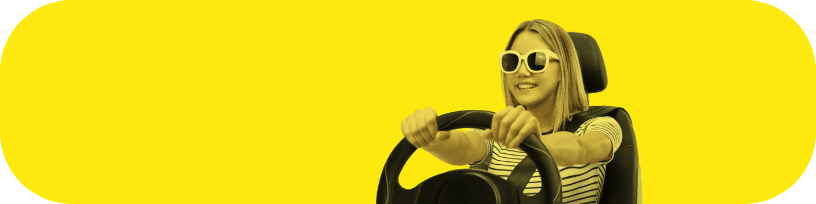
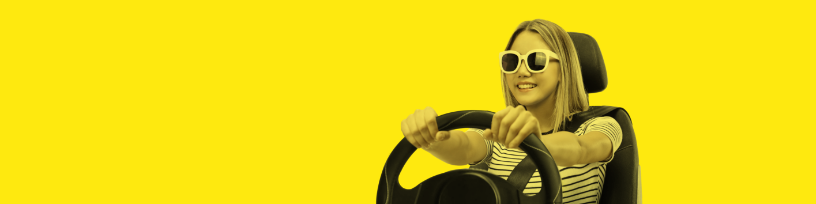
챗봇진입 완료

diff --git a/html/CHT-41.html b/html/CHT-41.html
@@ -28,14 +28,7 @@
 
 		<!-- chat_head -->
 		<div class="chat_head">
-			<div class="left">
-				<a href="javascript:;" class="btn_menu back"><span class="hide">챗봇 뒤로가기</span></a>
-			</div>
-			<h1 class="logo">챗봇</h1>
-			<div class="right">
-				<button type="button" class="btn_menu play"><span class="hide">챗봇 배경음악</span></button> 
-				<a href="javascript:;" class="btn_menu home"><span class="hide">롯데손해보험 홈화면으로 이동</span></a>
-			</div>
+			공통 : 헤더영역
 		</div>
 		<!-- //chat_head -->
 
@@ -44,21 +37,7 @@
 
 			<!-- bot_wrap -->
 			<div id="bot_restart" class="bot_wrap" style="display:none;"><!-- 초기셋팅 봇 : bot_restart -->
-				<div class="bot_img">
-					<span class="ico ico_bot"></span>
-				</div>
-				<div class="bot_box">
-					<div class="bot_box_inner">
-						<p class="bot_txt">
-							진행중인 작업이 있어요?<br>
-							퀵 메뉴로 이동하면 기존 작업은 사라져요..
-						</p>
-						<div class="btn_wrap col2">
-							<a href="javascript:;" class="btn big round black">계속진행</a>
-							<a href="javascript:;" class="btn big round purple" onclick="fn.init();">처음으로</a>
-						</div>
-					</div>
-				</div>
+				공통 : 다시하기 봇 영역
 			</div>
 			<!-- //bot_wrap -->
 
@@ -197,31 +176,7 @@
 
 		<!-- chat_foot -->
 		<div class="chat_foot">
-
-			<!-- restart_wrap -->
-			<div class="restart_wrap">
-				<button type="button" class="btn_restart" onclick="fn.restart();">다시하기</button>
-			</div>
-			<!-- //restart_wrap -->
-
-			<!-- chat_input_box -->
-			<div class="chat_input_box">
-				<input type="text" id="chat_input" placeholder="궁금한점을 입력하세요." title="문의내용">
-				<button type="button" class="btn_send"><span class="hide">문의 내용 전송</span></button>
-			</div>
-			<!-- //chat_input_box -->
-			
-			<!-- keyword_box -->
-			<div class="keyword_box"><!-- 활성화 : '.is_active' 추가 -->
-				<ul>
-					<li><a href="javascript:;"><strong class="mark">청구</strong>방법에 대해 궁금해요.</a></li>
-					<li><a href="javascript:;"><strong class="mark">청구</strong>방법에 대해 궁금해요.</a></li>
-					<li><a href="javascript:;"><strong class="mark">청구</strong>방법에 대해 궁금해요.</a></li>
-					<li><a href="javascript:;"><strong class="mark">청구</strong>방법에 대해 궁금해요.</a></li>
-				</ul>
-			</div>
-			<!-- //keyword_box -->
-			
+			공통 : 푸터영역
 		</div>
 		<!-- //chat_foot -->
 

diff --git a/html/CHT-31.html b/html/CHT-31.html
@@ -28,14 +28,7 @@
 
 		<!-- chat_head -->
 		<div class="chat_head">
-			<div class="left">
-				<a href="javascript:;" class="btn_menu back"><span class="hide">챗봇 뒤로가기</span></a>
-			</div>
-			<h1 class="logo">챗봇</h1>
-			<div class="right">
-				<button type="button" class="btn_menu play"><span class="hide">챗봇 배경음악</span></button>
-				<a href="javascript:;" class="btn_menu home"><span class="hide">롯데손해보험 홈화면으로 이동</span></a>
-			</div>
+			공통 : 헤더영역
 		</div>
 		<!-- //chat_head -->
 
@@ -44,21 +37,7 @@
 
 			<!-- bot_wrap -->
 			<div id="bot_restart" class="bot_wrap" style="display:none;"><!-- 초기셋팅 봇 : bot_restart -->
-				<div class="bot_img">
-					<span class="ico ico_bot"></span>
-				</div>
-				<div class="bot_box">
-					<div class="bot_box_inner">
-						<p class="bot_txt">
-							진행중인 작업이 있어요?<br>
-							퀵 메뉴로 이동하면 기존 작업은 사라져요..
-						</p>
-						<div class="btn_wrap col2">
-							<a href="javascript:;" class="btn big round black">계속진행</a>
-							<a href="javascript:;" class="btn big round purple" onclick="fn.init();">처음으로</a>
-						</div>
-					</div>
-				</div>
+				공통 : 다시하기 봇 영역
 			</div>
 			<!-- //bot_wrap -->
 
@@ -232,31 +211,7 @@
 
 		<!-- chat_foot -->
 		<div class="chat_foot">
-
-			<!-- restart_wrap -->
-			<div class="restart_wrap">
-				<button type="button" class="btn_restart" onclick="fn.restart();">다시하기</button>
-			</div>
-			<!-- //restart_wrap -->
-
-			<!-- chat_input_box -->
-			<div class="chat_input_box">
-				<input type="text" id="chat_input" placeholder="궁금한점을 입력하세요." title="문의내용">
-				<button type="button" class="btn_send"><span class="hide">문의 내용 전송</span></button>
-			</div>
-			<!-- //chat_input_box -->
-			
-			<!-- keyword_box -->
-			<div class="keyword_box"><!-- 활성화 : '.is_active' 추가 -->
-				<ul>
-					<li><a href="javascript:;"><strong class="mark">청구</strong>방법에 대해 궁금해요.</a></li>
-					<li><a href="javascript:;"><strong class="mark">청구</strong>방법에 대해 궁금해요.</a></li>
-					<li><a href="javascript:;"><strong class="mark">청구</strong>방법에 대해 궁금해요.</a></li>
-					<li><a href="javascript:;"><strong class="mark">청구</strong>방법에 대해 궁금해요.</a></li>
-				</ul>
-			</div>
-			<!-- //keyword_box -->
-			
+			공통 : 푸터영역
 		</div>
 		<!-- //chat_foot -->
 

diff --git a/html/CHT-51.html b/html/CHT-51.html
@@ -28,14 +28,7 @@
 
 		<!-- chat_head -->
 		<div class="chat_head">
-			<div class="left">
-				<a href="javascript:;" class="btn_menu back"><span class="hide">챗봇 뒤로가기</span></a>
-			</div>
-			<h1 class="logo">챗봇</h1>
-			<div class="right">
-				<button type="button" class="btn_menu play"><span class="hide">챗봇 배경음악</span></button> 
-				<a href="javascript:;" class="btn_menu home"><span class="hide">롯데손해보험 홈화면으로 이동</span></a>
-			</div>
+			공통 : 헤더영역
 		</div>
 		<!-- //chat_head -->
 
@@ -44,21 +37,7 @@
 
 			<!-- bot_wrap -->
 			<div id="bot_restart" class="bot_wrap" style="display:none;"><!-- 초기셋팅 봇 : bot_restart -->
-				<div class="bot_img">
-					<span class="ico ico_bot"></span>
-				</div>
-				<div class="bot_box">
-					<div class="bot_box_inner">
-						<p class="bot_txt">
-							진행중인 작업이 있어요?<br>
-							퀵 메뉴로 이동하면 기존 작업은 사라져요..
-						</p>
-						<div class="btn_wrap col2">
-							<a href="javascript:;" class="btn big round black">계속진행</a>
-							<a href="javascript:;" class="btn big round purple" onclick="fn.init();">처음으로</a>
-						</div>
-					</div>
-				</div>
+				공통 : 다시하기 봇 영역
 			</div>
 			<!-- //bot_wrap -->
 
@@ -115,31 +94,7 @@
 
 		<!-- chat_foot -->
 		<div class="chat_foot">
-
-			<!-- restart_wrap -->
-			<div class="restart_wrap">
-				<button type="button" class="btn_restart" onclick="fn.restart();">다시하기</button>
-			</div>
-			<!-- //restart_wrap -->
-
-			<!-- chat_input_box -->
-			<div class="chat_input_box">
-				<input type="text" id="chat_input" placeholder="궁금한점을 입력하세요." title="문의내용">
-				<button type="button" class="btn_send"><span class="hide">문의 내용 전송</span></button>
-			</div>
-			<!-- //chat_input_box -->
-			
-			<!-- keyword_box -->
-			<div class="keyword_box"><!-- 활성화 : '.is_active' 추가 -->
-				<ul>
-					<li><a href="javascript:;"><strong class="mark">청구</strong>방법에 대해 궁금해요.</a></li>
-					<li><a href="javascript:;"><strong class="mark">청구</strong>방법에 대해 궁금해요.</a></li>
-					<li><a href="javascript:;"><strong class="mark">청구</strong>방법에 대해 궁금해요.</a></li>
-					<li><a href="javascript:;"><strong class="mark">청구</strong>방법에 대해 궁금해요.</a></li>
-				</ul>
-			</div>
-			<!-- //keyword_box -->
-			
+			공통 : 푸터영역
 		</div>
 		<!-- //chat_foot -->
 

diff --git a/html/CHT-21.html b/html/CHT-21.html
@@ -28,14 +28,7 @@
 
 		<!-- chat_head -->
 		<div class="chat_head">
-			<div class="left">
-				<a href="javascript:;" class="btn_menu back"><span class="hide">챗봇 뒤로가기</span></a>
-			</div>
-			<h1 class="logo">챗봇</h1>
-			<div class="right">
-				<button type="button" class="btn_menu play"><span class="hide">챗봇 배경음악</span></button>
-				<a href="javascript:;" class="btn_menu home"><span class="hide">롯데손해보험 홈화면으로 이동</span></a>
-			</div>
+			공통 : 헤더영역
 		</div>
 		<!-- //chat_head -->
 
@@ -44,21 +37,7 @@
 
 			<!-- bot_wrap -->
 			<div id="bot_restart" class="bot_wrap" style="display:none;"><!-- 초기셋팅 봇 : bot_restart -->
-				<div class="bot_img">
-					<span class="ico ico_bot"></span>
-				</div>
-				<div class="bot_box">
-					<div class="bot_box_inner">
-						<p class="bot_txt">
-							진행중인 작업이 있어요?<br>
-							퀵 메뉴로 이동하면 기존 작업은 사라져요..
-						</p>
-						<div class="btn_wrap col2">
-							<a href="javascript:;" class="btn big round black">계속진행</a>
-							<a href="javascript:;" class="btn big round purple" onclick="fn.init();">처음으로</a>
-						</div>
-					</div>
-				</div>
+				공통 : 다시하기 봇 영역
 			</div>
 			<!-- //bot_wrap -->
 
@@ -130,31 +109,7 @@
 
 		<!-- chat_foot -->
 		<div class="chat_foot">
-
-			<!-- restart_wrap -->
-			<div class="restart_wrap">
-				<button type="button" class="btn_restart" onclick="fn.restart();">다시하기</button>
-			</div>
-			<!-- //restart_wrap -->
-
-			<!-- chat_input_box -->
-			<div class="chat_input_box">
-				<input type="text" id="chat_input" placeholder="궁금한점을 입력하세요." title="문의내용">
-				<button type="button" class="btn_send"><span class="hide">문의 내용 전송</span></button>
-			</div>
-			<!-- //chat_input_box -->
-			
-			<!-- keyword_box -->
-			<div class="keyword_box"><!-- 활성화 : '.is_active' 추가 -->
-				<ul>
-					<li><a href="javascript:;"><strong class="mark">청구</strong>방법에 대해 궁금해요.</a></li>
-					<li><a href="javascript:;"><strong class="mark">청구</strong>방법에 대해 궁금해요.</a></li>
-					<li><a href="javascript:;"><strong class="mark">청구</strong>방법에 대해 궁금해요.</a></li>
-					<li><a href="javascript:;"><strong class="mark">청구</strong>방법에 대해 궁금해요.</a></li>
-				</ul>
-			</div>
-			<!-- //keyword_box -->
-
+			공통 : 푸터영역
 		</div>
 		<!-- //chat_foot -->
 

diff --git a/index.html b/index.html
@@ -72,9 +72,20 @@
       </thead>
       <tbody>
         <tr class="common">
-          <th scope="row" rowspan="2">※</th>
-          <td>레이아웃</td>
+          <th scope="row">※</th>
+          <td>퍼블리싱 가이드</td>
           <td></td>
+          <td></td>
+          <td></td>
+          <td><a href="html/guide.html" target="_blank">guide.html</a></td>
+          <td class="complete"></td>
+          <td class="caution">
+          </td>
+        </tr>
+        <tr class="common">
+          <th scope="row">※</th>
+          <td>공통</td>
+          <td>레이아웃</td>
           <td></td>
           <td></td>
           <td><a href="html/layout.html" target="_blank">layout.html</a></td>
@@ -83,11 +94,12 @@
           </td>
         </tr>
         <tr class="common">
-          <td>퍼블리싱 가이드</td>
+          <th scope="row">※</th>
+          <td>공통</td>
+          <td>챗봇 진입</td>
+          <td>다시하기 버튼 이벤트,<br>처음으로 버튼 이벤트</td>
           <td></td>
-          <td></td>
-          <td></td>
-          <td><a href="html/guide.html" target="_blank">guide.html</a></td>
+          <td><a href="html/restart.html" target="_blank">restart.html</a></td>
           <td class="complete"></td>
           <td class="caution">
           </td>

diff --git a/html/restart.html b/html/restart.html
@@ -61,14 +61,29 @@
 				</div>
 			</div>
 			<!-- //bot_wrap -->
-			
-			컨텐츠내용
 
-			<!-- D: 마크업 확인용으로 개발시 제외해주세요. -->
-			<div style="margin:40px 0;">
-				<button type="button" class="btn" onclick="$('.keyword_box').toggleClass('is_active');">자동완성 레이어</button>
+			<!-- bot_wrap -->
+			<div id="bot_init" class="bot_wrap"><!-- 초기진입 봇 : bot_init -->
+				<div class="bot_img">
+					<span class="ico ico_bot"></span>
+				</div>
+				<div class="bot_box">
+					<div class="bot_box_inner">
+						<p class="bot_txt">
+							안녕하세요!<br>
+							롯데손해보험 챗봇 OOO 예요.<br>
+							무엇을 도와드릴까요?
+						</p>
+						
+						<div class="menu_wrap">
+							<a href="javascript:;" class="menu_item item_1">보험금<br>청구</a>
+							<a href="javascript:;" class="menu_item item_2">보험료<br>알아보기</a>
+							<a href="javascript:;" class="menu_item item_3">메뉴<br>조회</a>
+						</div>
+					</div>
+				</div>
 			</div>
-			<!-- //D: 마크업 확인용으로 개발시 제외해주세요. -->
+			<!-- //bot_wrap -->
 
 		</div>
 		<!-- //chat_cont -->

diff --git a/css/chatbot.css b/css/chatbot.css
@@ -225,7 +225,7 @@ select::-ms-expand {display:none;}
 
 /* banner_wrap */
 .banner_wrap {margin-top:20px;}
-.banner_wrap a {position:relative;margin-top:12px;border-radius:24px;}
+.banner_wrap a {position:relative;margin-top:12px;border-radius:24px;overflow:hidden;}
 .banner_wrap a:first-child {margin-top:0;} 
 .banner_wrap a:after {content:"";position:absolute;top:50%;right:12px;width:28px;height:28px;margin-top:-14px;background:#000 url('../img/ico_arrow.png') no-repeat 50% 50%/20px;border-radius:12px;}
 .banner_wrap img {width:100%;}
